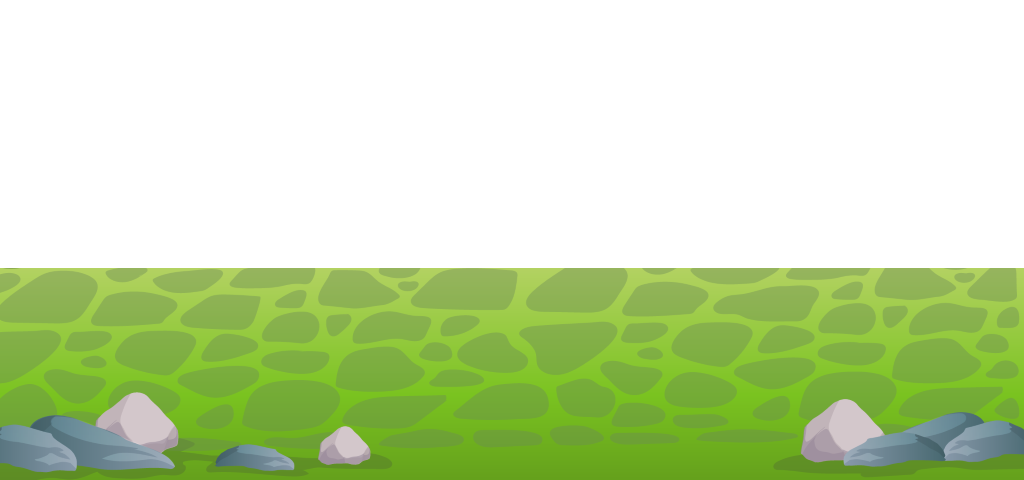
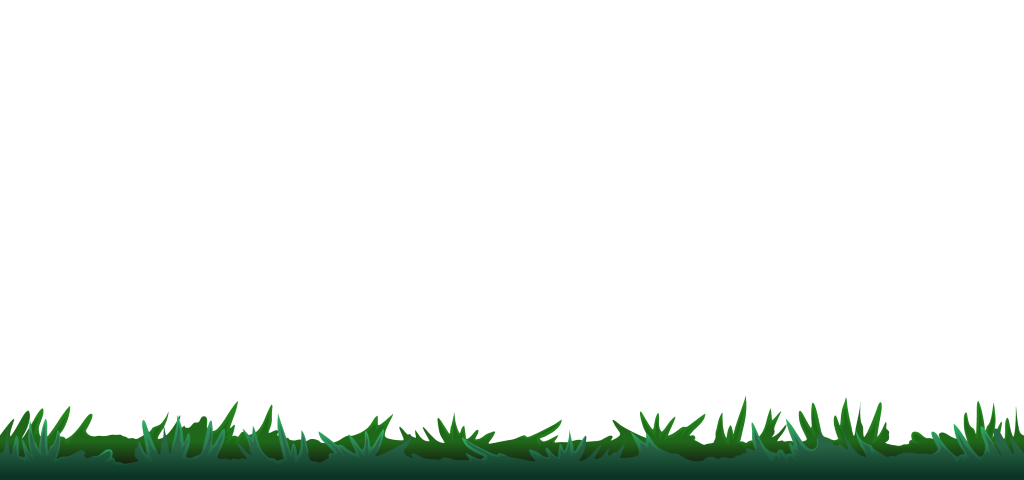
new backgrounds and break sounds

diff --git a/js/game.js b/js/game.js
@@ -55,8 +55,11 @@ var game={
 		game.bowReleasedSound = loader.loadSound("audio/released");
 		game.bounceSound = loader.loadSound('audio/bounce');
 		game.breakSound = {
-			"glass":loader.loadSound('audio/glassbreak'),
+			"ladrilloBlanco":loader.loadSound('audio/glassbreak'),
 			"ladrilloMarron":loader.loadSound('audio/woodbreak'),
+			"ladrilloRojo":loader.loadSound('audio/ladrilloRojobreak'),
+			"ladrilloGris":loader.loadSound('audio/ladrilloGrisbreak'),
+
 		};
 
 
@@ -381,6 +384,9 @@ var game={
         game.stopBackgroundMusic();	
 		$('#backrestart').hide();	
 		$('#restart').hide();
+		for(var body= box2d.world.GetBodyList();body; body=body.GetNext()){
+			box2d.world.DestroyBody(body);
+		}
         if (game.mode=="level-success"){
 			var heroesLeft = game.heroes.length;
 			var level = game.currentLevel.number+1;
@@ -1014,7 +1020,7 @@ var entities = {
             restitution:0.2,
         },
 		"ladrilloRojo":{
-			fullHealth:600,
+			fullHealth:400,
             density:1.0,
             friction:0.4,
             restitution:0.15,
@@ -1033,7 +1039,7 @@ var entities = {
 		},
 		"ladrilloGris":{
 			fullHealth:500,
-            density:2.4,
+            density:1.5,
             friction:0.4,
             restitution:0.15,
 		},
@@ -1060,15 +1066,15 @@ var entities = {
 			shape:"circle",
 			radius:25,
             density:2,
-            friction:0.2,
-            restitution:0.3,
+            friction:0.4,
+            restitution:0.4,
 		},
 		"roca_pinchos":{
 			shape:"circle",
 			radius:25,
             density:2.5,
             friction:1.2,
-            restitution:0.2,
+            restitution:0.4,
 		},
 		"black_knight":{
             shape:"rectangle",
@@ -1099,7 +1105,7 @@ var entities = {
         },
 		"boss":{
 			shape:"rectangle",
-            fullHealth:500,
+            fullHealth:400,
             width:80,
             height:120,
             density:1,
